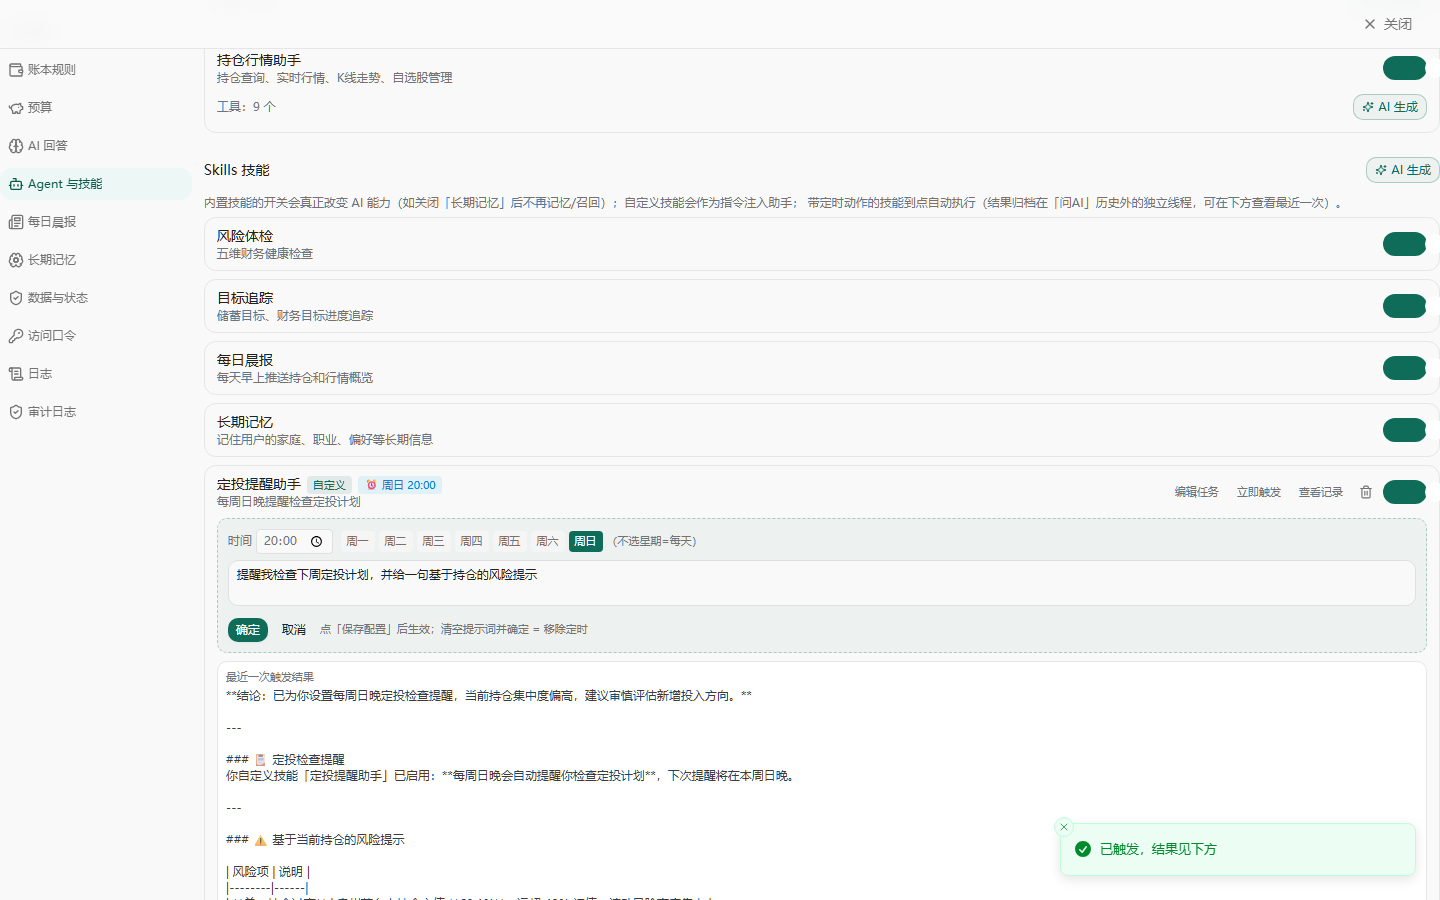
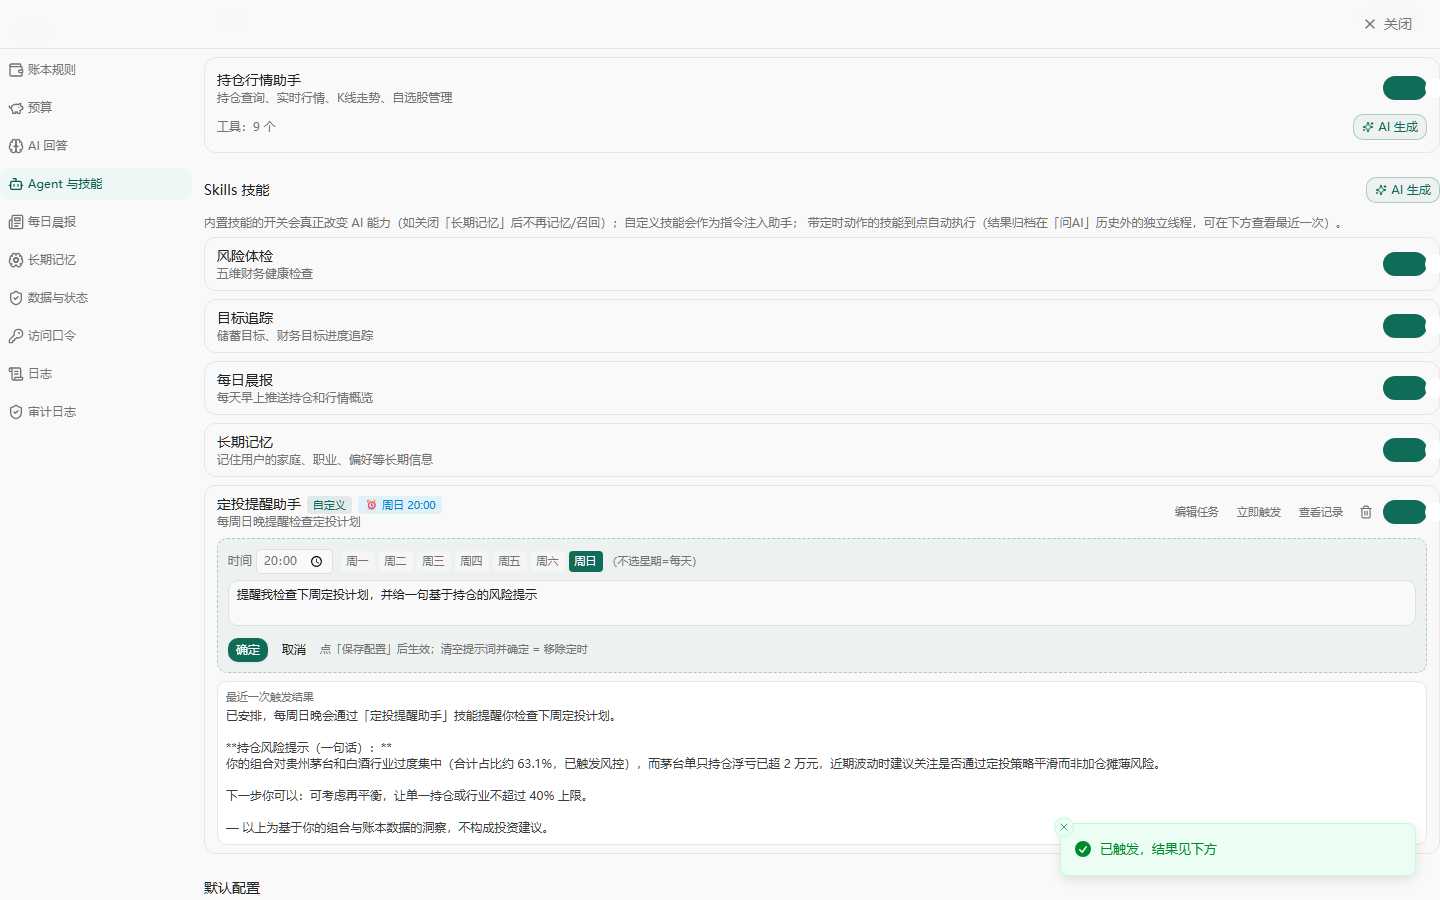
chore(i18n): 技能动作按钮全量 i18n（英文界面不再漏中文）
- AgentSection 技能行按钮与 aria-label 改走 t()：编辑任务/加定时/立即触发/执行中/
  查看记录/收起记录（含 aria-label 带技能名），英文界面显示 Edit task/Schedule/
  Run now/Running…/History
- 补中英 i18n 键 10 个；e2e 断言随 aria-label 更新
- 重拍受影响截图（Agent 设置区、技能定时动作）

Gates: tsc / vitest 84 / build / e2e 14 全绿

diff --git a/frontend/src/components/settings/AgentSection.tsx b/frontend/src/components/settings/AgentSection.tsx
@@ -290,33 +290,33 @@ export function AgentSection() {
                   {!BUILTIN_SKILL_IDS.has(key) && (
                     <button
                       type="button"
-                      aria-label={`${skill.action ? "编辑" : "设置"}定时任务 ${skill.name}`}
+                      aria-label={t(skill.action ? "agent.scheduleEdit" : "agent.scheduleAdd", { c: skill.name })}
                       className="rounded px-1.5 py-0.5 text-[11px] text-muted-foreground hover:bg-primary/10 hover:text-primary"
                       onClick={() => (editingAction === key ? setEditingAction(null) : openActionEditor(key))}
                     >
-                      {skill.action ? "编辑任务" : "加定时"}
+                      {t(skill.action ? "agent.scheduleEditLabel" : "agent.scheduleAddLabel")}
                     </button>
                   )}
                   {skill.action && (
                     <button
                       type="button"
-                      aria-label={`立即触发 ${skill.name}`}
+                      aria-label={t("agent.runNow", { c: skill.name })}
                       className="rounded px-1.5 py-0.5 text-[11px] text-muted-foreground hover:bg-primary/10 hover:text-primary disabled:opacity-50"
                       disabled={running === key}
                       onClick={() => void runNow(key)}
                     >
-                      {running === key ? "执行中…" : "立即触发"}
+                      {running === key ? t("agent.running2") : t("agent.runNowLabel")}
                     </button>
                   )}
                   {skill.action && (
                     <button
                       type="button"
-                      aria-label={`查看触发记录 ${skill.name}`}
+                      aria-label={t("agent.historyToggle", { c: skill.name })}
                       aria-expanded={historyFor === key}
                       className="rounded px-1.5 py-0.5 text-[11px] text-muted-foreground hover:bg-primary/10 hover:text-primary"
                       onClick={() => void toggleHistory(key)}
                     >
-                      {historyFor === key ? "收起记录" : "查看记录"}
+                      {historyFor === key ? t("agent.historyHideLabel") : t("agent.historyShowLabel")}
                     </button>
                   )}
                   {!BUILTIN_SKILL_IDS.has(key) && (

diff --git a/frontend/src/lib/lang/zh.ts b/frontend/src/lib/lang/zh.ts
@@ -221,6 +221,16 @@ export const zh: Record<string, string> = {
   "agent.actionOk": "确定",
   "agent.actionCancel": "取消",
   "agent.actionSaveHint": "点「保存配置」后生效；清空提示词并确定 = 移除定时",
+  "agent.scheduleEdit": "编辑 {c} 的定时任务",
+  "agent.scheduleAdd": "给 {c} 设置定时任务",
+  "agent.scheduleEditLabel": "编辑任务",
+  "agent.scheduleAddLabel": "加定时",
+  "agent.runNow": "立即触发 {c}",
+  "agent.runNowLabel": "立即触发",
+  "agent.running2": "执行中…",
+  "agent.historyToggle": "查看 {c} 的触发记录",
+  "agent.historyShowLabel": "查看记录",
+  "agent.historyHideLabel": "收起记录",
   "agent.historyTitle": "触发记录（含定时；归档于独立线程，不进会话列表）",
   "agent.historyEmpty": "还没有触发记录——点「立即触发」或等到点自动执行",
   "agent.lastRun": "最近一次触发结果",

diff --git a/frontend/src/lib/lang/en.ts b/frontend/src/lib/lang/en.ts
@@ -222,6 +222,16 @@ export const en: Record<string, string> = {
   "agent.actionOk": "OK",
   "agent.actionCancel": "Cancel",
   "agent.actionSaveHint": "Takes effect after “Save config”; clear the prompt and confirm to remove",
+  "agent.scheduleEdit": "Edit schedule for {c}",
+  "agent.scheduleAdd": "Add a schedule for {c}",
+  "agent.scheduleEditLabel": "Edit task",
+  "agent.scheduleAddLabel": "Schedule",
+  "agent.runNow": "Run {c} now",
+  "agent.runNowLabel": "Run now",
+  "agent.running2": "Running…",
+  "agent.historyToggle": "Run history for {c}",
+  "agent.historyShowLabel": "History",
+  "agent.historyHideLabel": "Hide history",
   "agent.historyTitle": "Run history (incl. scheduled; archived to a separate thread)",
   "agent.historyEmpty": "No runs yet — trigger now or wait for the schedule",
   "agent.lastRun": "Latest run result",

diff --git a/frontend/e2e/smoke.spec.ts b/frontend/e2e/smoke.spec.ts
@@ -123,7 +123,7 @@ test.describe("应用启动 & 冒烟", () => {
       await expect(page.getByText("最近一次触发结果")).toBeVisible({ timeout: 30_000 });
 
       // 触发记录：归档线程可查（含刚触发的一条；标题 + 问题可见）
-      await page.getByRole("button", { name: "查看触发记录 E2E 周报提醒" }).click();
+      await page.getByRole("button", { name: "查看 E2E 周报提醒 的触发记录" }).click();
       await expect(page.getByText(/触发记录（含定时/)).toBeVisible({ timeout: 10_000 });
       await expect(page.getByText("帮我看看这个月的支出").first()).toBeVisible({ timeout: 10_000 });
     } finally {
